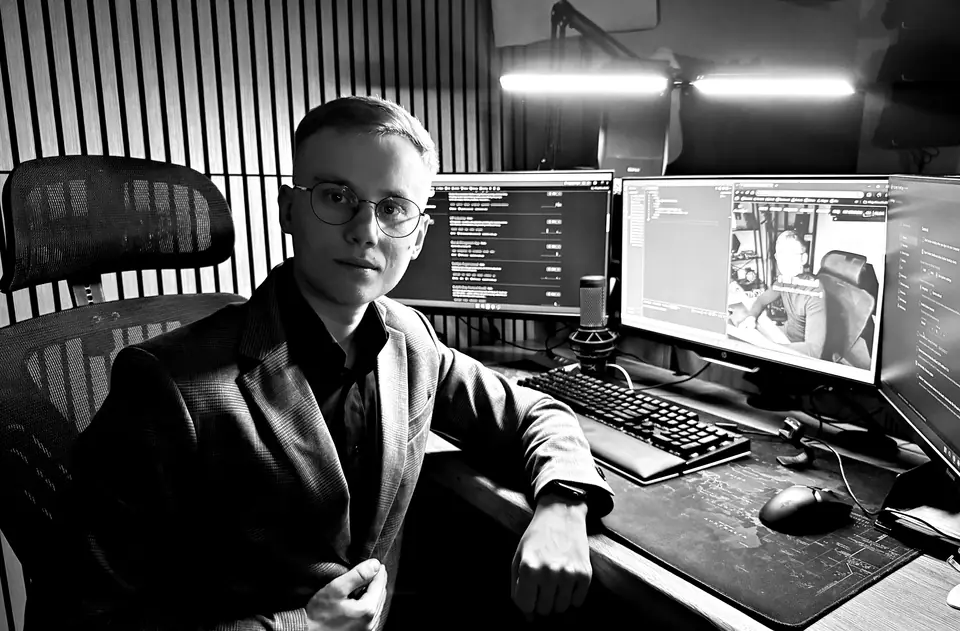
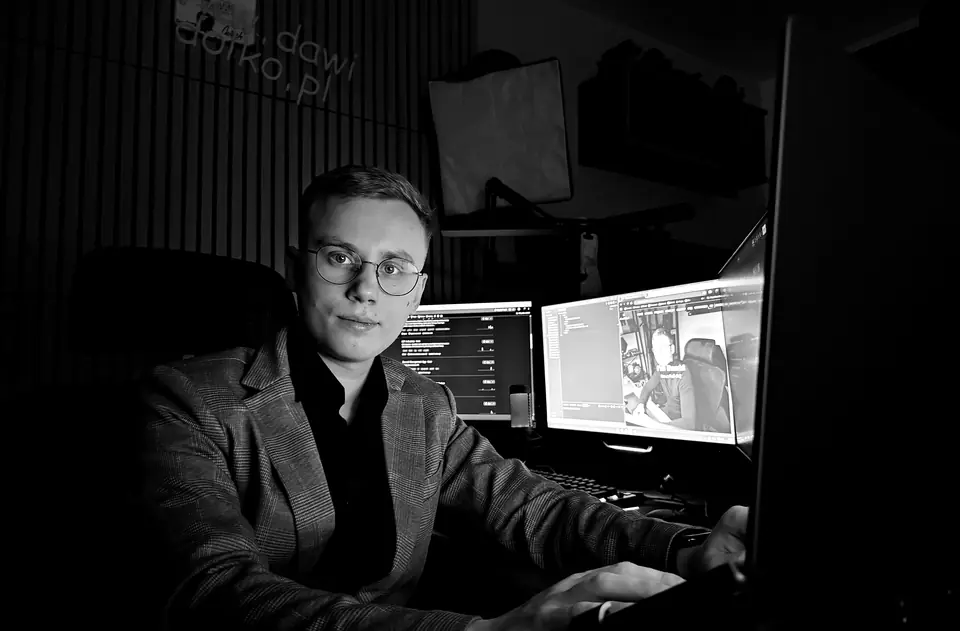
feat: swap home, projects, studies and blog hero photos, label repeated links
Use the newly chosen shots, give each Learn more and Read More link a
screen-reader name, and shrink the two University backgrounds.

diff --git a/studies.html b/studies.html
@@ -154,7 +154,7 @@
             </p>
             <a
               href="https://techint.dawidolko.pl/"
-              >Learn more</a
+              >Learn more<span class="visually-hidden"> about HTML</span></a
             >
           </div>
         </div>
@@ -167,7 +167,7 @@
             </p>
             <a
               href="https://techint.dawidolko.pl/"
-              >Learn more</a
+              >Learn more<span class="visually-hidden"> about CSS</span></a
             >
           </div>
         </div>
@@ -180,7 +180,7 @@
             </p>
             <a
               href="https://techint.dawidolko.pl/"
-              >Learn more</a
+              >Learn more<span class="visually-hidden"> about JavaScript</span></a
             >
           </div>
         </div>
@@ -192,7 +192,7 @@
           <div class="card">
             <h3>C programming</h3>
             <p>Laboratories covering the basics of programming in C and C++.</p>
-            <a href="https://c.dawidolko.pl/">Learn more</a>
+            <a href="https://c.dawidolko.pl/">Learn more<span class="visually-hidden"> about C programming</span></a>
           </div>
         </div>
         <div class="item move">
@@ -201,7 +201,7 @@
             <h3>C++ programming</h3>
             <p>Laboratories covering the basics of programming in C and C++.</p>
             <a href="https://cpp.dawidolko.pl/"
-              >Learn more</a
+              >Learn more<span class="visually-hidden"> about C++ programming</span></a
             >
           </div>
         </div>
@@ -215,7 +215,7 @@
             </p>
             <a
               href="https://cs.dawidolko.pl/"
-              >Learn more</a
+              >Learn more<span class="visually-hidden"> about C# programming</span></a
             >
           </div>
         </div>
@@ -230,7 +230,7 @@
             </p>
             <a
               href="https://py.dawidolko.pl/"
-              >Learn more</a
+              >Learn more<span class="visually-hidden"> about PYTHON</span></a
             >
           </div>
         </div>
@@ -243,7 +243,7 @@
             </p>
             <a
               href="https://java.dawidolko.pl/"
-              >Learn more</a
+              >Learn more<span class="visually-hidden"> about JAVA</span></a
             >
           </div>
         </div>
@@ -255,7 +255,7 @@
               Labs in the field of web applications with the Laravel framework and basic bootstrap.</p>
             <a
               href="https://webapps.dawidolko.pl/"
-              >Learn more</a
+              >Learn more<span class="visually-hidden"> about PHP</span></a
             >
           </div>
         </div>

diff --git a/projects.html b/projects.html
@@ -894,7 +894,7 @@
                 navigation.
               </p>
               <a href="https://ubuntu.dawidolko.pl/" type="button"
-                >Read More</a
+                >Read More<span class="visually-hidden"> about Simulaing Ubuntu system's GUI</span></a
               >
             </div>
           </div>
@@ -915,7 +915,7 @@
                  of the appearance of the macOS system.
               </p>
               <a href="https://macos.dawidolko.pl/" type="button"
-                >Read More</a
+                >Read More<span class="visually-hidden"> about Simulaing Macos system's GUI</span></a
               >
             </div>
           </div>
@@ -936,7 +936,7 @@
                 other modern technologies.
               </p>
               <a href="https://windows.dawidolko.pl/" type="button"
-                >Read More</a
+                >Read More<span class="visually-hidden"> about Simulaing Windows system's GUI</span></a
               >
             </div>
           </div>

diff --git a/src/css/studies.css b/src/css/studies.css
@@ -916,6 +916,17 @@ details > div:focus-visible {
 /* Phones crop the wide hero, so aim the crop at the subject. */
 @media (max-width: 809px) {
   .header__photo {
-    object-position: 50% top;
+    object-position: 26% top;
   }
+}
+
+.visually-hidden {
+  position: absolute;
+  width: 1px;
+  height: 1px;
+  margin: -1px;
+  padding: 0;
+  overflow: hidden;
+  clip: rect(0, 0, 0, 0);
+  border: 0;
 }

diff --git a/src/css/projects.css b/src/css/projects.css
@@ -970,6 +970,17 @@ details > div:focus-visible {
 /* Phones crop the wide hero, so aim the crop at the subject. */
 @media (max-width: 809px) {
   .header__photo {
-    object-position: 7% top;
+    object-position: 50% top;
   }
+}
+
+.visually-hidden {
+  position: absolute;
+  width: 1px;
+  height: 1px;
+  margin: -1px;
+  padding: 0;
+  overflow: hidden;
+  clip: rect(0, 0, 0, 0);
+  border: 0;
 }
